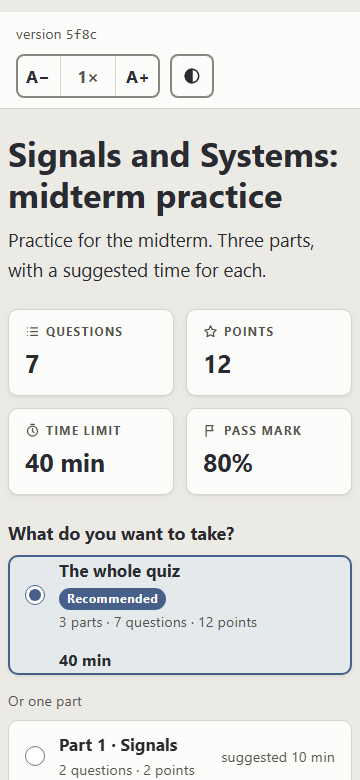
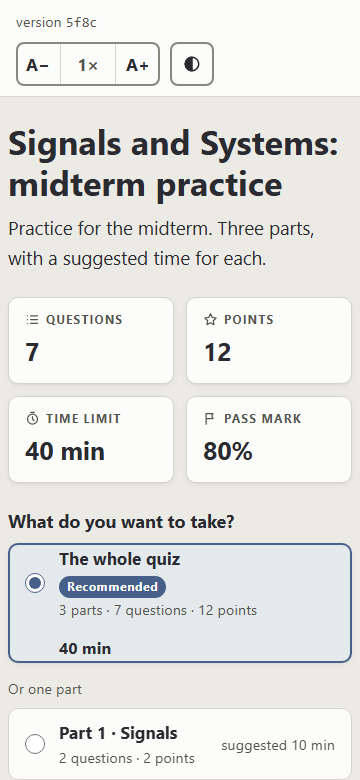
7c: review after G14; G15; screenshots retaken with the bar flush

diff --git a/docs/plans/STEP7.md b/docs/plans/STEP7.md
@@ -18,7 +18,7 @@ As in step 6 ([archive/STEP6.md](archive/STEP6.md), Handoff): the planner writes
 | 7a | built and reviewed (2026-11-20): `npm run check` passes on Windows; with the dock bug fixed | `d671461e`, `cd2175fa`, `e78158c6`, `0045cbc5`, `325fc8f6`, `08bd7287`, `4549bb02` |
 | 7b | briefed (2026-11-20); waits for G10 and the owner's approval | |
 | CI and licence | CI runs on `main`; typos clean; the grade key row and the shelf phone card hold with Linux's wider fonts; the copyright holder is `hung-nduc` | `97f41a85`, `613e0809`, `f472c391` |
-| 7c | built; goldens and review done (2026-11-21); `npm run check` fails 2 tests (one foot test, both browsers): waits for G14 | `2e75de00`, `b62efff9`, `8202c302`, `d07ef96e` |
+| 7c | built and reviewed (2026-11-21), G14 built: `npm run check` passes on Windows; `main` fast-forwarded, 1.1.1 installed | `2e75de00`, `b62efff9`, `8202c302`, `d07ef96e`, `10c759e7`, `fd2dec97` and the review |
 
 ### Next
 
@@ -26,8 +26,8 @@ As in step 6 ([archive/STEP6.md](archive/STEP6.md), Handoff): the planner writes
 2. **Done, `4549bb02`:** a bug the owner found (2026-11-20): the docked top bar stays tall after the Appearance menu closes. `src/page/dock.ts` sets the measured height as the dock's inline `min-height`, so when its content shrinks the box does not, and the `ResizeObserver` on the dock never fires again (reproduced on the owner's quiz: 99 px, 160 px with the menu open, still 160 px after it closed while the content needed 98 px). Anything that shrinks the dock sticks the same way (A−, a wider window). The fix measures the dock's content (each child observed, and again when a child comes or goes: the menu, the dialog, the review bar); a Playwright test opens and closes the menu, and A+ then A−, and checks the dock is back to its content's height. The menu keeps closing on a click outside, as now.
 3. **Done (2026-11-20):** fast-forward `1.0`, pack and reinstall from the tarball as in step 6, and check that the `/quiz` skill loads again.
 4. **Done (2026-11-20):** the CI fix (the trigger, typos, the two layouts that failed on Linux's wider fonts) and the licence holder; the owner's shelf published as `biomed-quizzes`, linked from the README. CI on Linux confirms the layouts after the owner pushes.
-5. **Now: G14, then close 7c.** 7c's goldens are committed (`d07ef96e`, 31 changed, all explained) and its review is written (below). `npm run check` fails only `e2e/foot.spec.ts:18` at 390 × 844 in both browsers, caused by the bar. Once the owner decides G14: make the change (the test, and the bar flush with the top if decided), `npm run golden:update` if the padding changes, `npm run check` to exit 0, then fast-forward `main` (still at `e5d79276`) and install 1.1.1 from the tarball as in step 6.
-6. **Waiting on the owner:** pushing `main` and the tag `v1.1.0` (`git -C D:/coding-projects/fullmark push origin main v1.1.0`), and the shelf (`git -C D:/studying/biomed-quizzes push`), whose last commit republishes with every font and exams A and B under the `exam` profile; after 7c is installed, `quiz library publish` again so the shelf gets the start screen's bar. G11 is open.
+5. **Done (2026-11-21):** 7c finished and reviewed, G14 built, a scroll regression on Start fixed, `npm run check` exit 0; `main` fast-forwarded and 1.1.1 installed from the tarball.
+6. **Waiting on the owner:** pushing `main` and the tags `v1.1.0` and `v1.1.1` (`git -C D:/coding-projects/fullmark push origin main v1.1.0 v1.1.1`), and the shelf (`git -C D:/studying/biomed-quizzes push`), whose last commit republishes with every font and exams A and B under the `exam` profile; after 7c is installed, `quiz library publish` again so the shelf gets the start screen's bar. G11 is open.
 7. **Then:** slice 7b, Tab completion (G6, G7, G9 decided 2026-11-20): the owner decides G10 and approves the brief.
 
 ## Goal
@@ -40,7 +40,7 @@ Step 6's rules hold ([archive/STEP6.md](archive/STEP6.md), "Rules for every slic
 
 ## Gaps
 
-G1 to G3 and G6 to G9 are decided ([STEP7-GAPS.md](STEP7-GAPS.md)). Open: G4 and G5, small and not blocking (7a's review, below), G10 and G11; G12 to G14 are decided ([STEP7-GAPS.md](STEP7-GAPS.md)). New ones are added here from G15.
+G1 to G3 and G6 to G9 are decided ([STEP7-GAPS.md](STEP7-GAPS.md)). Open: G4 and G5, small and not blocking (7a's review, below), G10, G11 and G15 (7c's review, below); G12 to G14 are decided ([STEP7-GAPS.md](STEP7-GAPS.md)). New ones are added here from G16.
 
 **G10. The version after 7b.** A new command (`shell-init`) is more than a fix, as with G3. **Recommendation:** `1.2.0`; about 29 goldens change only in the version string and what follows from it, as in 7a, and are counted in the review.
 
@@ -169,3 +169,12 @@ The agent was stopped at the session's end, during `npm run golden:update`, and 
 - **By hand**, from `npm pack` installed with `npm install -g --prefix` into a temporary folder (`fullmark 1.1.1`), `quiz build map.md --fonts all`, the page driven in Chromium: Readable and A+ picked on the start screen gave `Lexend`, 19 px, the pill `1.12×`; after Start, `Lexend`, 19 px, `1.12×`, and no start bar. A `look: locked` build: 0 Appearance buttons, A+ there. Seen in a screenshot: the bar sits 12 px below the window's top (`.fm-quiz` has `padding-top: 12px`), where the board draws it flush. G14.
 
 **G14. The start bar makes the start screen scroll at 390 × 844.** `e2e/foot.spec.ts` expects a short quiz's start screen to fit the window from 390 px up; with the bar it is 21 px too tall, as it already was at 360 px. The design asks only that the ⓘ button be at the foot and never over content, which still holds (TECHNICAL_DESIGN.md, section 3 and section 8, "Phone sizes"); fitting the window was the test's assumption. Making the bar fit would need more than the bar: flush with the top (−12 px) and a tighter phone padding (65 to 45 px) still leave 1 px over. **Recommendation:** accept that a phone's start screen may scroll: the test keeps "fits the window" for desktop and checks the button at the page's end on all three phones; and put the bar flush with the window's top, as the board draws it (no `.fm-quiz` top padding before Start). One goldens round for the padding (the 25 pages' bundle, as above).
+
+**After G14** (decided 2026-11-21 as recommended; written into TECHNICAL_DESIGN.md, section 8, **Where they are**):
+
+- **The change** (`10c759e7`): the start phase's 12 px top padding is gone, so the bar is flush with the window's top (`e2e/startbar.spec.ts` checks it); `e2e/foot.spec.ts` asks a short quiz's start screen to fit the window on desktop only, and on the phones checks the ⓘ button at the page's end. 28 goldens: 25 pages only in the stylesheet and its CSP hash, 3 text files in byte counts and the hash that follows.
+- **A regression it showed** (`fd2dec97`): the next check failed `e2e/sidebar.spec.ts:235` in both browsers (question 1 not in view after Start and Back at 700 × 940). The page kept the start screen's scroll after Start, and Start sits at the screen's end: 1.1.0 landed at scrollY 42 by luck, 7c's first version at 203 (question 1 half under the dock), and with the bar flush scroll anchoring threw it to 4852, the quiz's end. Start now scrolls to the top before the questions render; the start bar test checks `scrollY` is 0 after Start. Fixed without a gap: the existing test already expected question 1 in view. Continue is not changed: it sits at the start screen's top. 28 goldens only in the bundle and its hash.
+- **A runner race, seen once:** an interrupted `golden:update` was run again; one run gave `publish-sync-unchanged` "2 updated" and `publish-sync-swap` a new folder, because those cases copy `publish-sync/files/shelf` (another golden's output) as input, and that run read it before it was regenerated. The next run gave neither. Not a behaviour change; a golden that takes another's output depends on order. **G15**, below.
+- **Check on Windows**, nothing else running: `npm run build`, then `npm run check`, **exit 0 in 23 min**. Biome 587 files; typecheck and knip pass; startup test 2 passed; Vitest 3,929 passed, 3 skipped (163 files, 506 s); budgets passed on their retry (Chromium 1,117 then 366 ms, Firefox 1,739 then 707 ms, limit 1,000 ms; a cold first measurement as before); Playwright 885 passed, 567 skipped by design (14.2 min). Screenshots in `docs/screens/7c/` retaken: the bar is flush.
+
+**G15. Goldens that copy another golden's output.** `publish-sync-unchanged` and `publish-sync-swap` take `test/golden/library/publish-sync/files/shelf` through `copy.txt`, so after a bundle change a single `golden:update` can write them from the stale shelf; a second run fixes it. **Recommendation:** build their shelf in the case itself (a first `publish` step, or a fixture shelf under `test/fixtures/` refreshed by the runner before the cases), so no case reads another's output; a task in the next slice that touches the runner.
